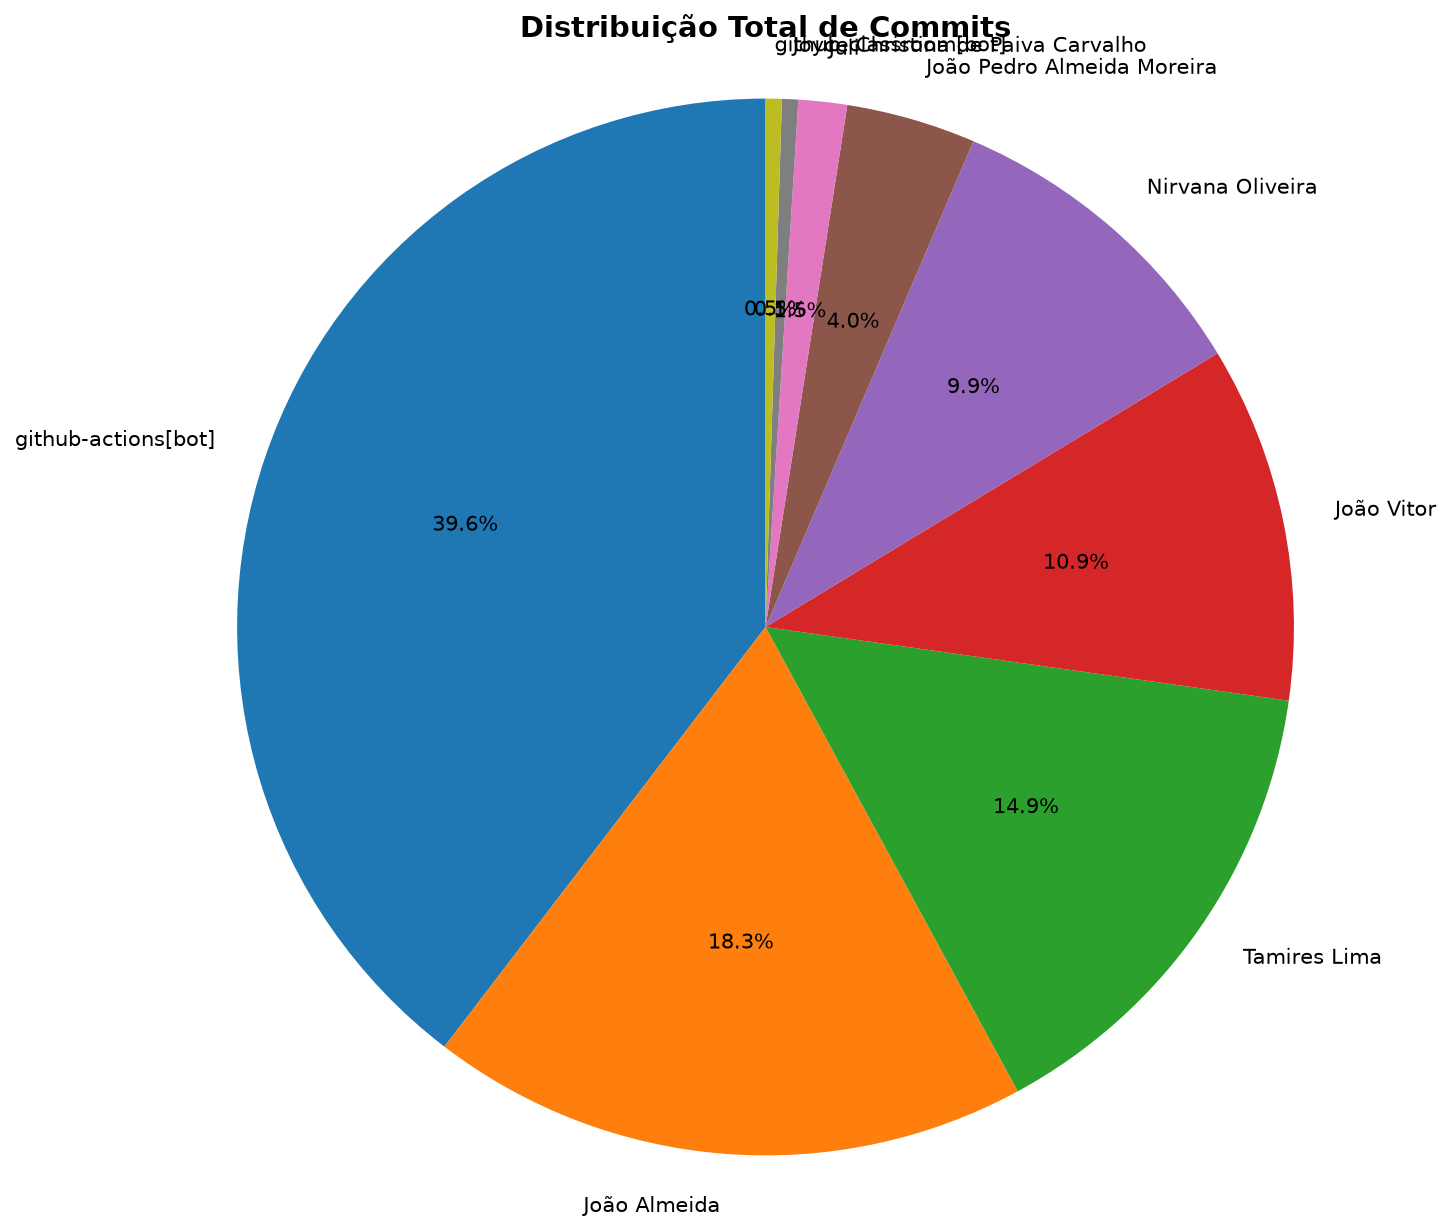
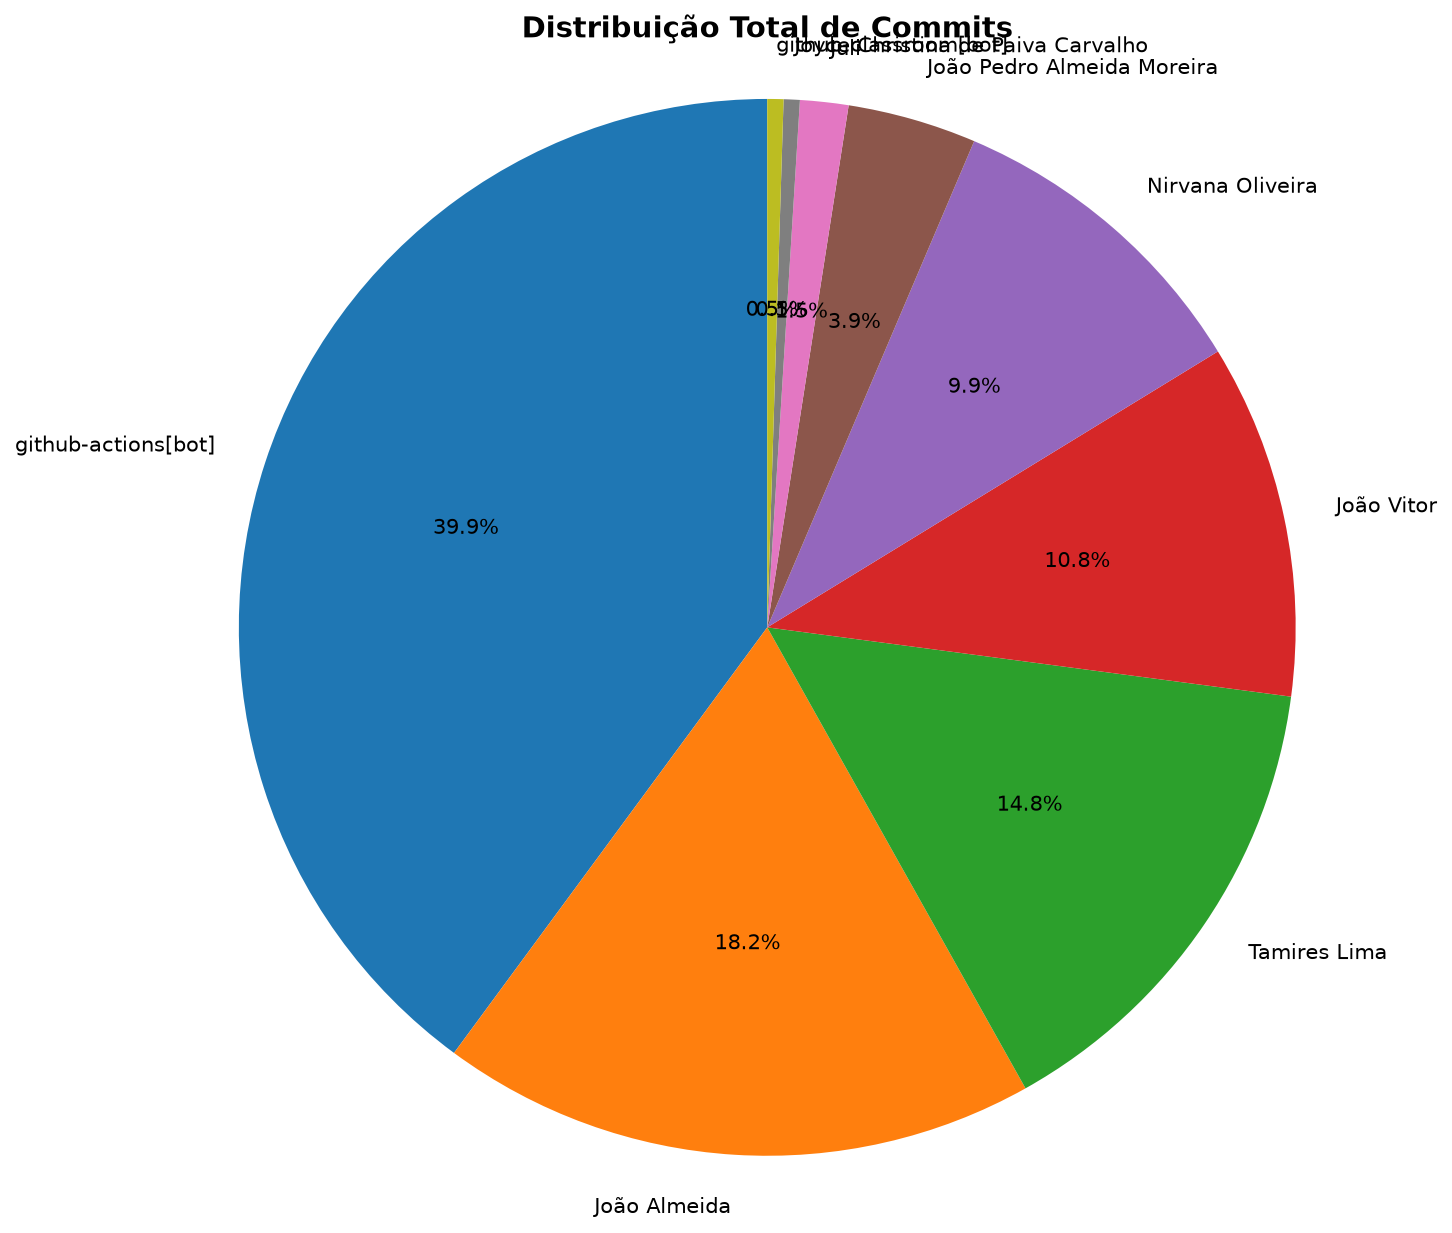
📊 Atualizar relatório de contribuições [skip ci]

diff --git a/documentos/CONTRIBUTION_REPORT.md b/documentos/CONTRIBUTION_REPORT.md
@@ -1,6 +1,6 @@
 # 📊 Relatório de Contribuições do Projeto
 
-**Última atualização:** 19/10/2026 03:33
+**Última atualização:** 26/10/2026 03:32
 
 ---
 
@@ -15,11 +15,13 @@
 | Juli                              |         3 |       417 |        63 |          5 |              0 |               0 |
 | Nirvana Oliveira                  |        20 |      2344 |       334 |         22 |              1 |               0 |
 | Tamires Lima                      |        30 |       566 |       274 |         34 |             25 |               3 |
-| github-actions[bot]               |        80 |       535 |       460 |          3 |             79 |               1 |
+| github-actions[bot]               |        81 |       542 |       469 |          3 |             80 |               1 |
 | github-classroom[bot]             |         1 |       774 |         0 |         19 |              1 |               3 |
 
 
 ## 📅 Contribuições Semanais (Todo o Semestre)
+
+**2026-10-19**: github-actions[bot]: 1
 
 **2026-10-12**: github-actions[bot]: 1
 
@@ -42,8 +44,6 @@
 **2026-05-25**: João Almeida: 7, João Vitor: 3, Tamires Lima: 1, github-actions[bot]: 7
 
 **2026-05-18**: João Vitor: 2, Tamires Lima: 4, github-actions[bot]: 3
-
-**2026-05-04**: João Almeida: 14, João Pedro Almeida Moreira: 4, João Vitor: 2, Juli: 1, Nirvana Oliveira: 8, Tamires Lima: 8, github-actions[bot]: 24
 
 
 
